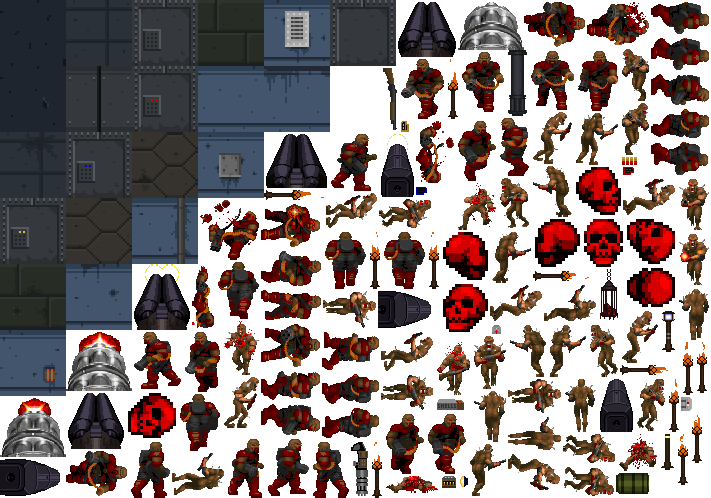
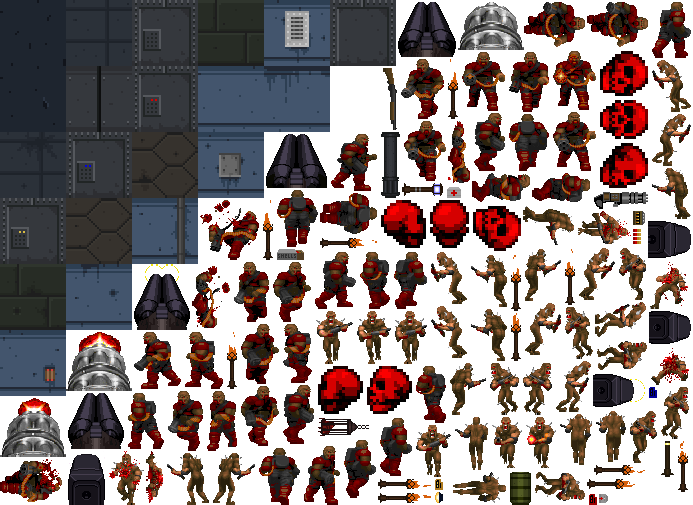
Updated graphics and disabled sound

diff --git a/src/assets/scripts/components/Game/scenes/Scene/index.js b/src/assets/scripts/components/Game/scenes/Scene/index.js
@@ -222,7 +222,8 @@ class Scene extends Container {
       this.addChild(this.mainContainer);
       this.mainContainer.initFadeInEffect();
       this.loadingContainer.destroy();
-      this.game.sound.play(SCENE_MUSIC);
+      // TODO: Enabled music
+      // this.game.sound.play(SCENE_MUSIC);
     }
   }
 
